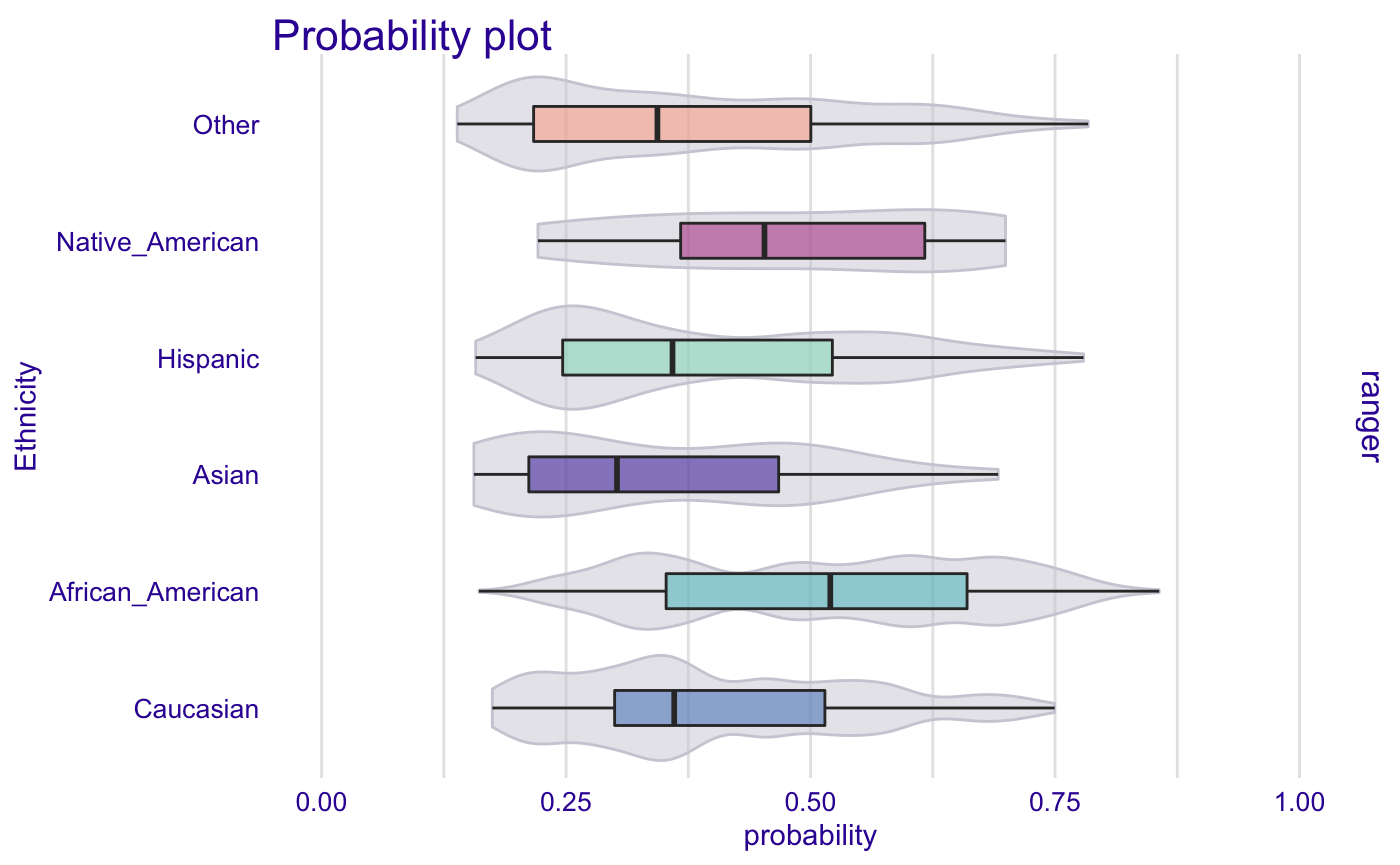
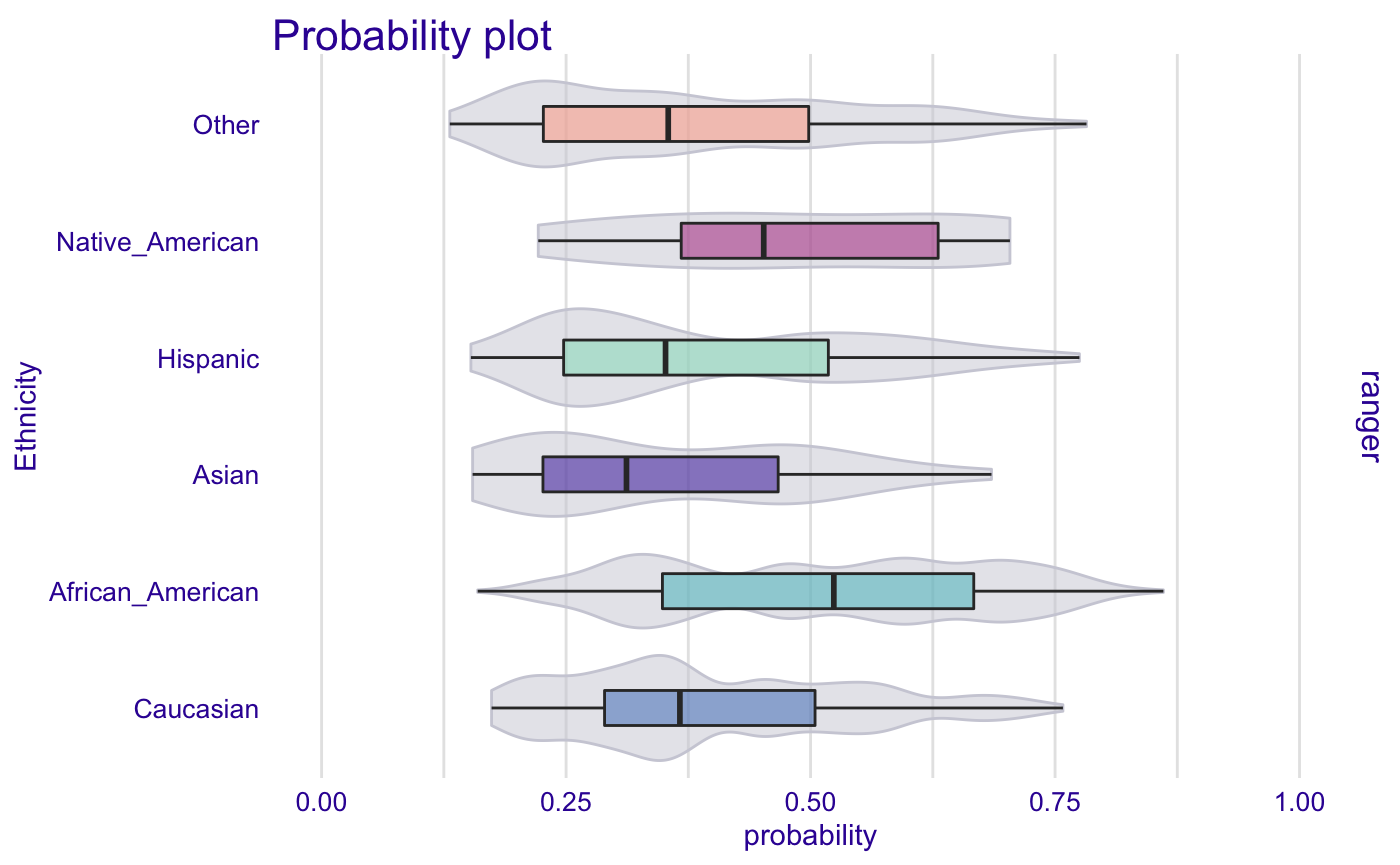
Built site for fairmodels: 0.1.0@1510632

diff --git a/articles/tutorial.html b/articles/tutorial.html
@@ -146,9 +146,9 @@
 #&gt;   -&gt; target variable   :  6172  values 
 #&gt;   -&gt; model_info        :  package ranger , ver. 0.12.1 , task classification ( [33m default [39m ) 
 #&gt;   -&gt; predict function  :  yhat.ranger  will be used ( [33m default [39m )
-#&gt;   -&gt; predicted values  :  numerical, min =  0.1387241 , mean =  0.4553343 , max =  0.8564967  
+#&gt;   -&gt; predicted values  :  numerical, min =  0.1310964 , mean =  0.4548816 , max =  0.8607733  
 #&gt;   -&gt; residual function :  difference between y and yhat ( [33m default [39m )
-#&gt;   -&gt; residuals         :  numerical, min =  -0.7978005 , mean =  -0.0002143992 , max =  0.8424529  
+#&gt;   -&gt; residuals         :  numerical, min =  -0.7972845 , mean =  0.000238296 , max =  0.8473341  
 #&gt;  [32m A new explainer has been created! [39m</code></pre>
 <p>Than we create <code>fairness_object</code> with <code><a href="../reference/create_fairness_object.html">create_fairness_object()</a></code></p>
 <div class="sourceCode" id="cb6"><html><body><pre class="r"><span class="no">fobject</span> <span class="kw">&lt;-</span> <span class="fu"><a href="../reference/create_fairness_object.html">create_fairness_object</a></span>(<span class="no">rf_explainer</span>,
